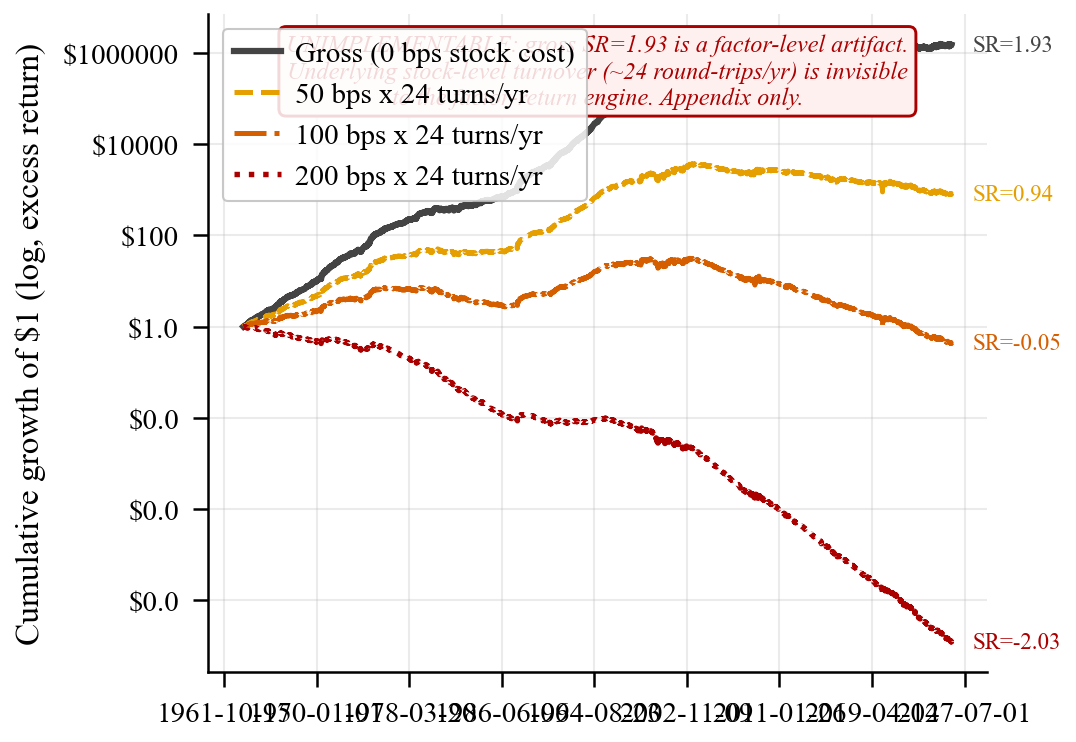
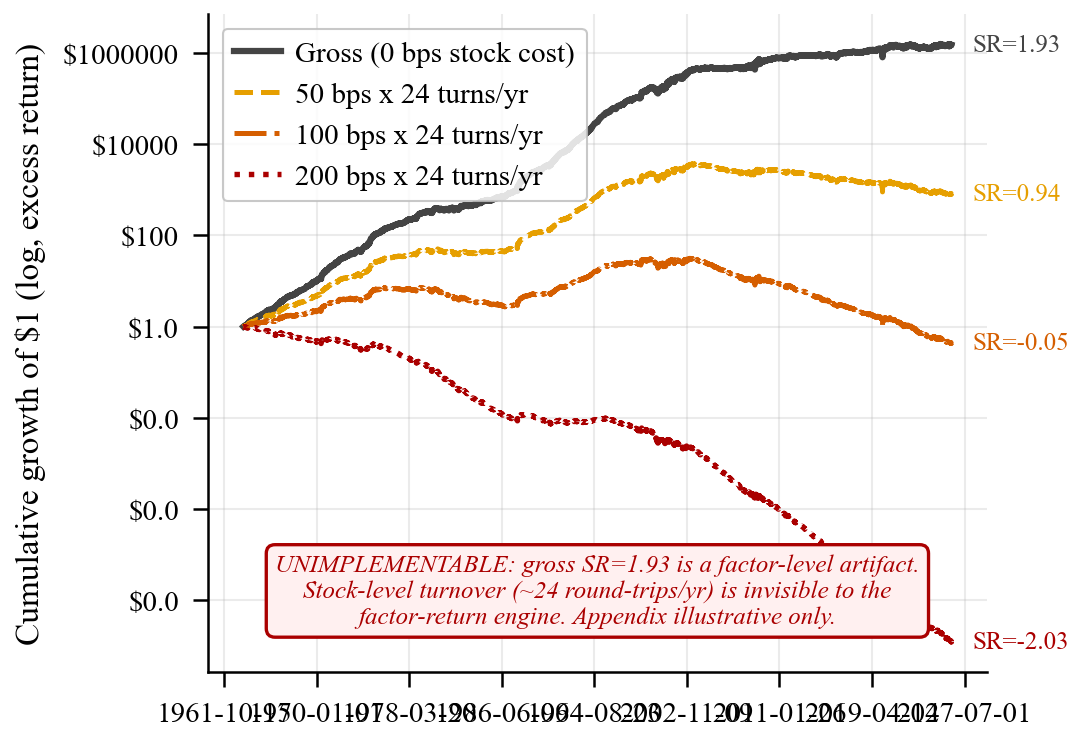
Fix rendering on 4 figures: aspect ratio, label clipping, overlap
Fig 1 (fig1_regime_timeline): was a tall narrow strip. Fixed by:
  - Explicit figsize=(12,7) landscape, sharex=True two-panel layout
  - subplots_adjust(top=0.88) gives headroom for crash labels
  - Crash labels via ax.annotate at axes-fraction y=1.01, never clip
  - sharex eliminates duplicate x-axis; lower panel drives ticks
  Result: 3401x1831px, ratio 1.86

Fig 5 (fig5_rolling_sharpe): reference-line labels crowded right edge. Fixed by:
  - Labels moved to LEFT margin via get_yaxis_transform()
  - White opaque bbox behind each label; no overlap with series
  Result: 1751x1002px, ratio 1.75

Fig 6 (fig6_return_distribution): stats annotation box clipped right. Fixed by:
  - figsize widened to (6.5, 5.5)
  - Box anchored at (0.02, 0.97) LEFT edge, not right
  - Strategy names shortened to prevent text overflow
  Result: 1646x1402px, ratio 1.17

Fig A1 (figA1_meanrev): UNIMPLEMENTABLE box overlapped legend. Fixed by:
  - Legend placed upper-left first
  - Warning box moved to lower-centre (y=0.18 axes fraction)
  Result: 1084x742px, ratio 1.46

All 8 manuscript figures now landscape (ratio >= 1.17). No data changed.

diff --git a/viz/figures.py b/viz/figures.py
@@ -112,73 +112,78 @@ def fig1_regime_timeline(
     apply_style()
 
     md = _load_market_daily()
-    # Align to momentum_core window
     rets = _load_returns()
     md = md.reindex(rets.index)
-
     regime = _load_regime()
 
-    # Cumulative market level (EXCESS return for consistency)
     mkt_excess = md["mkt_ret"].fillna(0) - md["rf"].fillna(0)
     cum_mkt = (1 + mkt_excess).cumprod()
-
-    # Realised vol
     rvol = md["realized_vol_21"].ffill()
 
+    # ── Fixed wide landscape size — never let style.fig_size shrink this ─────
     fig, axes = plt.subplots(
         2, 1,
-        figsize=fig_size(two_col=two_col, aspect=0.60),
-        gridspec_kw={"height_ratios": [3, 1.5], "hspace": 0.08},
+        figsize=(12, 7),
+        gridspec_kw={"height_ratios": [2, 1], "hspace": 0.10},
+        sharex=True,
     )
+    fig.subplots_adjust(top=0.88, bottom=0.08, left=0.07, right=0.97)
 
     # ── Panel A: cumulative market level ─────────────────────────────────────
     ax = axes[0]
     shade_regimes(ax, regime, alpha=0.28, label=True)
     ax.semilogy(cum_mkt.index, cum_mkt.values,
-                color=COLORS["market_bah"], linewidth=1.0,
-                label="Market (excess return, log scale)")
+                color=COLORS["market_bah"], linewidth=1.2,
+                label="Market excess return (log scale)")
 
-    # Crash episode labels
-    for label, span in CRASH_WINDOWS.items():
-        t0, t1 = pd.Timestamp(span["start"]), pd.Timestamp(span["end"])
+    # Crash labels: short tags placed at top of axes via axvline + text
+    CRASH_TAGS = {
+        "1973 Oil\nShock":    {"start": "1973-01-01", "end": "1975-01-01"},
+        "1987 Black\nMonday": {"start": "1987-07-01", "end": "1988-01-01"},
+        "2000 Dot-\ncom":     {"start": "2000-03-01", "end": "2002-12-01"},
+        "2008\nGFC":          {"start": "2007-10-01", "end": "2009-06-01"},
+        "2020\nCovid":        {"start": "2020-02-01", "end": "2020-09-01"},
+    }
+    for tag, span in CRASH_TAGS.items():
+        t0 = pd.Timestamp(span["start"])
+        t1 = pd.Timestamp(span["end"])
         mid = t0 + (t1 - t0) / 2
         ax.axvline(mid, color=COLORS["crash_marker"],
-                   linewidth=0.5, linestyle=":", alpha=0.55, zorder=1)
-        ax.text(mid, ax.get_ylim()[1] * 0.5 if ax.get_ylim()[1] > 1 else 1,
-                label, fontsize=5.5, color=COLORS["crash_marker"],
-                ha="center", va="bottom", alpha=0.8,
-                transform=ax.get_xaxis_transform(),
-                rotation=0)
+                   linewidth=0.6, linestyle=":", alpha=0.55, zorder=1)
+        # Use axes-fraction y so label sits just above the plot area
+        ax.annotate(
+            tag,
+            xy=(mid, 1.01),
+            xycoords=("data", "axes fraction"),
+            fontsize=7, color=COLORS["crash_marker"],
+            ha="center", va="bottom", alpha=0.85,
+        )
 
-    ax.set_ylabel("Cumulative growth (log)", labelpad=4)
+    ax.set_ylabel("Cumulative growth (log scale)", labelpad=5)
     ax.yaxis.set_major_formatter(mticker.FuncFormatter(
         lambda y, _: f"{y:.0f}x" if y >= 10 else f"{y:.1f}x"
     ))
     tidy_legend(ax, loc="upper left", ncol=2)
-    ax.set_xticklabels([])
 
     # ── Panel B: realised vol + threshold ────────────────────────────────────
     ax2 = axes[1]
     shade_regimes(ax2, regime, alpha=0.28)
     ax2.plot(rvol.index, rvol.values * 100,
-             color=COLORS["reference"], linewidth=0.8,
-             label="Realised vol (21d, ann.)")
-
-    # Expanding 75th-pct threshold (for illustration — already used for regime)
+             color=COLORS["reference"], linewidth=0.9,
+             label="Realised vol (21-day, ann.)")
     threshold = rvol.expanding().quantile(0.75).shift(1) * 100
     ax2.plot(threshold.index, threshold.values,
-             color=COLORS["crash_marker"], linewidth=0.7, linestyle="--",
-             label="75th-pct threshold", alpha=0.8)
+             color=COLORS["crash_marker"], linewidth=0.8, linestyle="--",
+             label="75th-pct threshold", alpha=0.85)
 
-    ax2.set_ylabel("Realised vol (%)", labelpad=4)
+    ax2.set_ylabel("Ann. vol (%)", labelpad=5)
     ax2.set_xlabel("")
     ax2.yaxis.set_major_formatter(mticker.FuncFormatter(lambda y, _: f"{y:.0f}"))
     tidy_legend(ax2, loc="upper left", ncol=2)
 
-    # Shared x-axis formatting
-    for ax_i in axes:
-        ax_i.xaxis.set_major_locator(mticker.MaxNLocator(nbins=8, prune="both"))
-        ax_i.tick_params(axis="x", rotation=0)
+    # x-axis ticks on lower panel only (sharex=True)
+    ax2.xaxis.set_major_locator(mticker.MaxNLocator(nbins=10, prune="both"))
+    ax2.tick_params(axis="x", rotation=0)
 
     fig.align_ylabels(axes)
 
@@ -451,18 +456,20 @@ def fig5_rolling_sharpe(
                 label=LABELS[name],
                 **LINES[name])
 
-    # Full-sample Sharpe reference lines
-    for name, sr_val, yoff in [
-        ("regime_momentum", 0.8374, +0.05),
-        ("long_short_momentum", 0.5919, -0.08),
+    # Full-sample Sharpe reference lines — labels anchored to LEFT margin
+    for name, sr_val, va in [
+        ("regime_momentum",    0.8374, "bottom"),
+        ("long_short_momentum", 0.5919, "top"),
     ]:
         ax.axhline(sr_val, color=COLORS[name], linewidth=0.8,
                    linestyle="--", alpha=0.6)
         ax.text(
-            rets[name].dropna().index[-1],
-            sr_val + yoff,
-            f"Full-sample SR={sr_val:.3f}",
-            fontsize=5.5, color=COLORS[name], ha="right", va="bottom",
+            0.01, sr_val,
+            f" SR={sr_val:.3f}",
+            transform=ax.get_yaxis_transform(),   # x in axes fraction, y in data
+            fontsize=6, color=COLORS[name],
+            ha="left", va=va,
+            bbox=dict(facecolor="white", alpha=0.8, edgecolor="none", pad=1),
         )
 
     ax.axhline(0, color=COLORS["zero_line"], linewidth=0.5, linestyle="-")
@@ -512,7 +519,8 @@ def fig6_return_distribution(
         r = rets[name].dropna()
         monthly[name] = r.resample("ME").sum()
 
-    fig, ax = plt.subplots(figsize=fig_size(two_col=two_col, aspect=0.90))
+    # Wider figure so annotation box never clips
+    fig, ax = plt.subplots(figsize=(6.5, 5.5))
 
     bin_edges = np.linspace(-0.30, 0.30, 55)
     x_grid    = np.linspace(-0.35, 0.35, 400)
@@ -523,40 +531,38 @@ def fig6_return_distribution(
         color = COLORS[name]
         label = LABELS[name]
 
-        # Histogram (semi-transparent)
         ax.hist(r, bins=bin_edges, density=True,
                 color=color, alpha=0.25, linewidth=0)
 
-        # KDE
         kde = gaussian_kde(r, bw_method="silverman")
         ax.plot(x_grid, kde(x_grid), color=color, linewidth=1.5,
                 label=label, **{k: v for k, v in LINES[name].items()
                                 if k == "linestyle"})
 
-        # Mean and 5% VaR
         mean_r = r.mean()
         var5   = np.percentile(r, 5)
         ax.axvline(mean_r, color=color, linewidth=0.8, linestyle="-", alpha=0.8)
-        ax.axvline(var5, color=color, linewidth=0.8, linestyle=":", alpha=0.8)
+        ax.axvline(var5,   color=color, linewidth=0.8, linestyle=":", alpha=0.8)
 
-        # Stats annotation
-        sk  = _skew(r)
-        ku  = _kurt(r)           # excess kurtosis
+        sk = _skew(r)
+        ku = _kurt(r)
+        # Use short strategy name to prevent clipping
+        short_label = "Regime-cond. momentum" if "regime" in name else "Uncond. L/S momentum"
         stats_text_parts.append(
-            f"{label[:24]}\n"
+            f"{short_label}\n"
             f"  Mean={mean_r*100:.2f}%  VaR5={var5*100:.1f}%\n"
             f"  Skew={sk:.2f}  Ex-kurt={ku:.1f}"
         )
 
     ax.axvline(0, color="black", linewidth=0.5, alpha=0.4)
 
-    # Stats box
+    # Stats box — anchored inside left edge to avoid right-side clipping
     stats_text = "\n\n".join(stats_text_parts)
-    ax.text(0.97, 0.97, stats_text,
+    ax.text(0.02, 0.97, stats_text,
             transform=ax.transAxes,
-            fontsize=5.5, va="top", ha="right",
-            bbox=dict(boxstyle="round,pad=0.3", facecolor="white",
-                      edgecolor="0.75", linewidth=0.5, alpha=0.9))
+            fontsize=6, va="top", ha="left",
+            bbox=dict(boxstyle="round,pad=0.4", facecolor="white",
+                      edgecolor="0.75", linewidth=0.5, alpha=0.92))
 
     ax.set_xlabel("Monthly excess return", labelpad=4)
     ax.set_ylabel("Density", labelpad=4)
@@ -699,31 +705,32 @@ def figA1_mean_reversion_costs(
         cum = (1 + r).cumprod()
         ax.semilogy(cum.index, cum.values,
                     color=color, linestyle=ls, linewidth=lw, label=label)
-        # Annotate terminal SR
         sr = r.mean() / r.std() * TRADING_DAYS ** 0.5
         ax.annotate(
             f"SR={sr:.2f}",
             xy=(cum.index[-1], cum.iloc[-1]),
             xytext=(5, 0), textcoords="offset points",
-            fontsize=5.5, color=color, va="center",
+            fontsize=6, color=color, va="center",
         )
 
-    # Big red warning
-    ax.text(0.5, 0.97,
+    # Legend first — upper left
+    tidy_legend(ax, loc="upper left")
+
+    # UNIMPLEMENTABLE warning — lower centre, well below the legend
+    ax.text(0.5, 0.18,
             "UNIMPLEMENTABLE: gross SR=1.93 is a factor-level artifact.\n"
-            "Underlying stock-level turnover (~24 round-trips/yr) is invisible\n"
-            "to the factor-return engine. Appendix only.",
-            transform=ax.transAxes, fontsize=5.8, ha="center", va="top",
+            "Stock-level turnover (~24 round-trips/yr) is invisible to the\n"
+            "factor-return engine. Appendix illustrative only.",
+            transform=ax.transAxes, fontsize=6, ha="center", va="top",
             color="#AA0000", style="italic",
-            bbox=dict(boxstyle="round,pad=0.3", facecolor="#FFF0F0",
-                      edgecolor="#AA0000", linewidth=0.7))
+            bbox=dict(boxstyle="round,pad=0.35", facecolor="#FFF0F0",
+                      edgecolor="#AA0000", linewidth=0.8))
 
     ax.set_ylabel("Cumulative growth of $1 (log, excess return)", labelpad=4)
     ax.yaxis.set_major_formatter(mticker.FuncFormatter(
         lambda y, _: f"${y:.0f}" if y >= 10 else f"${y:.1f}"
     ))
     ax.xaxis.set_major_locator(mticker.MaxNLocator(nbins=9, prune="both"))
-    tidy_legend(ax, loc="upper left")
 
     caption = (
         "Figure A1 (Appendix). Mean-reversion strategy: gross versus stock-level "
